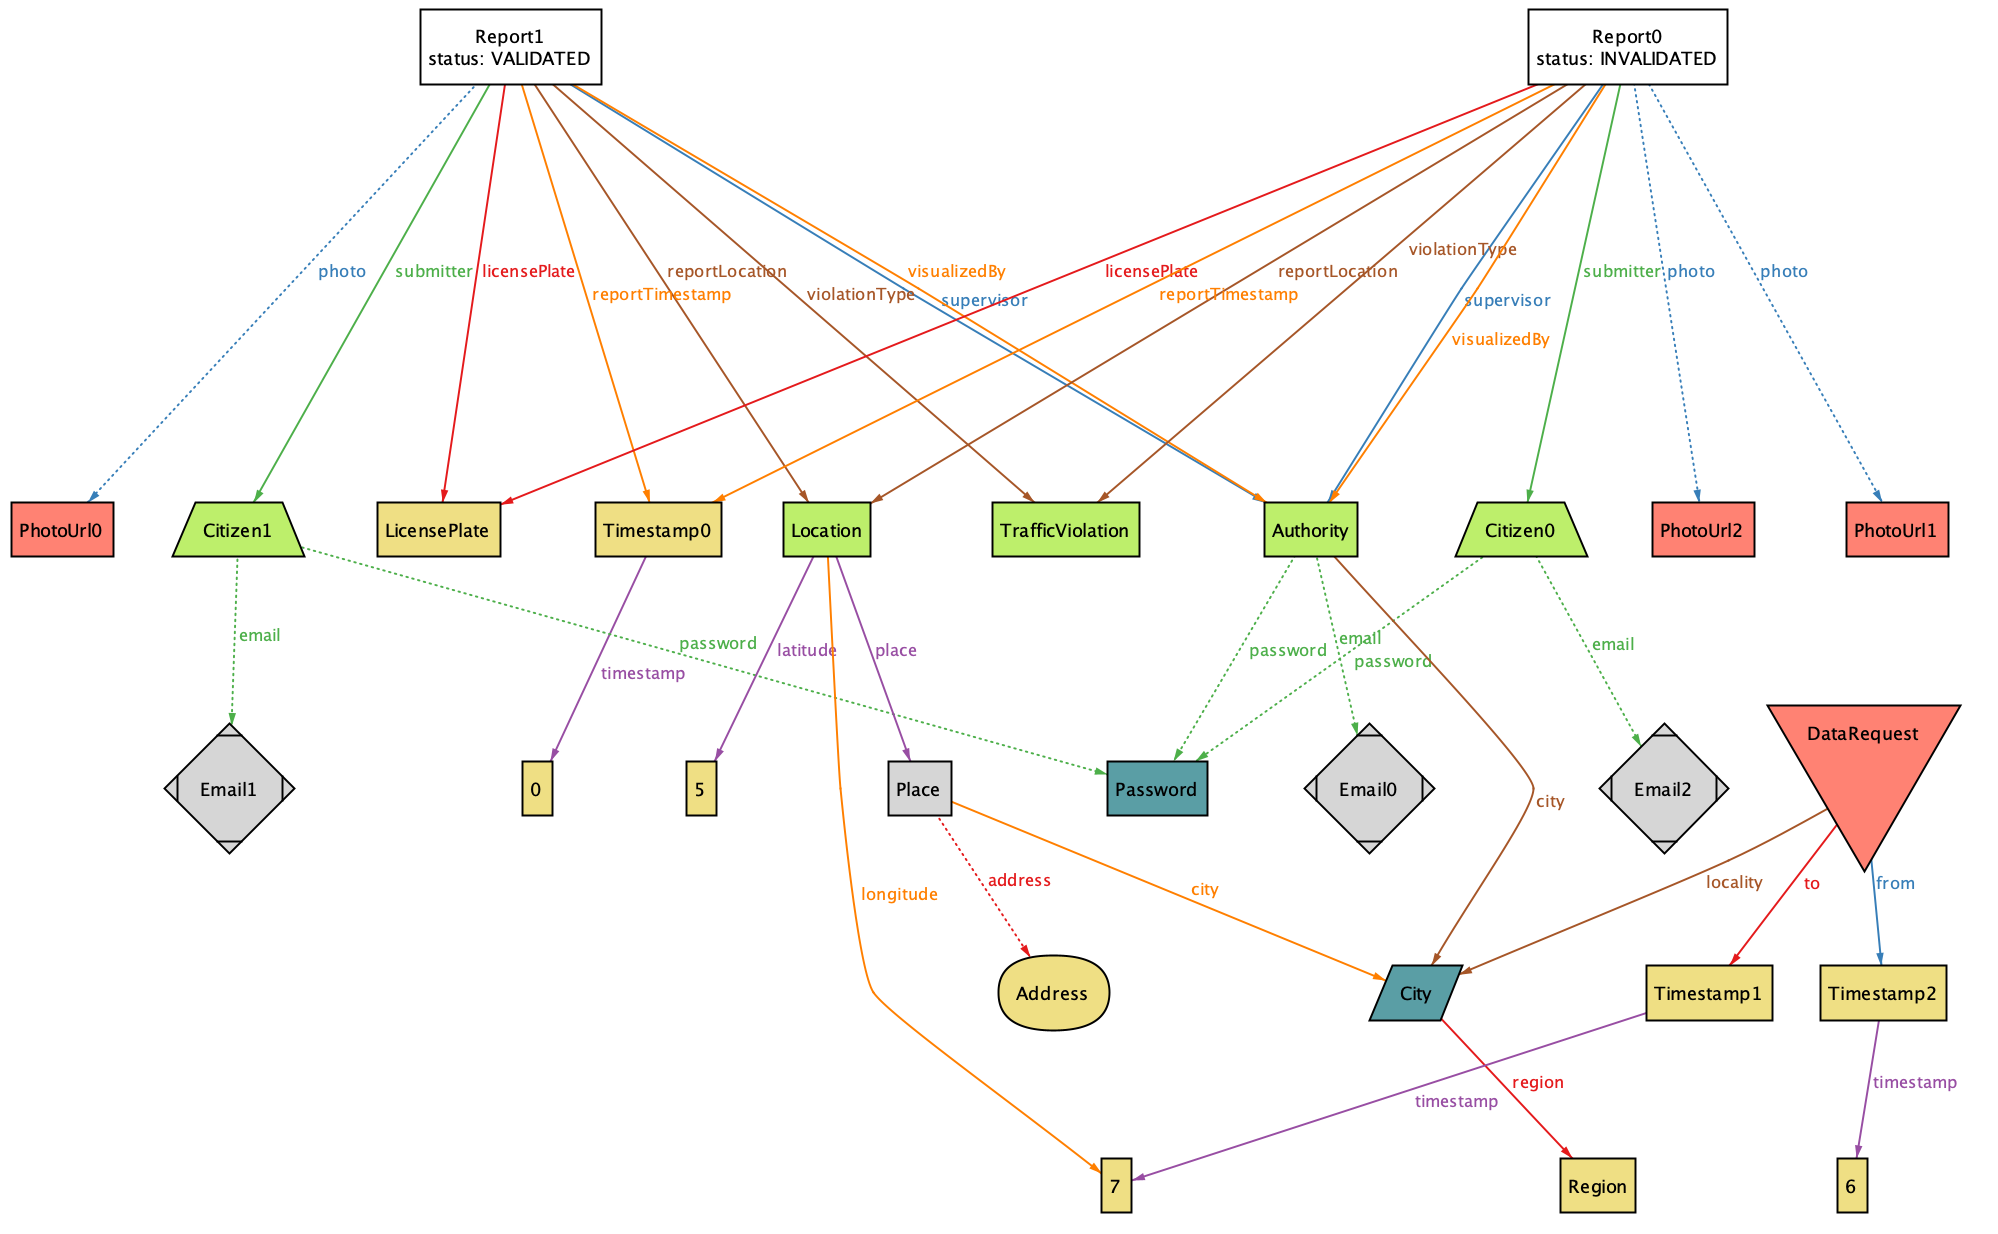
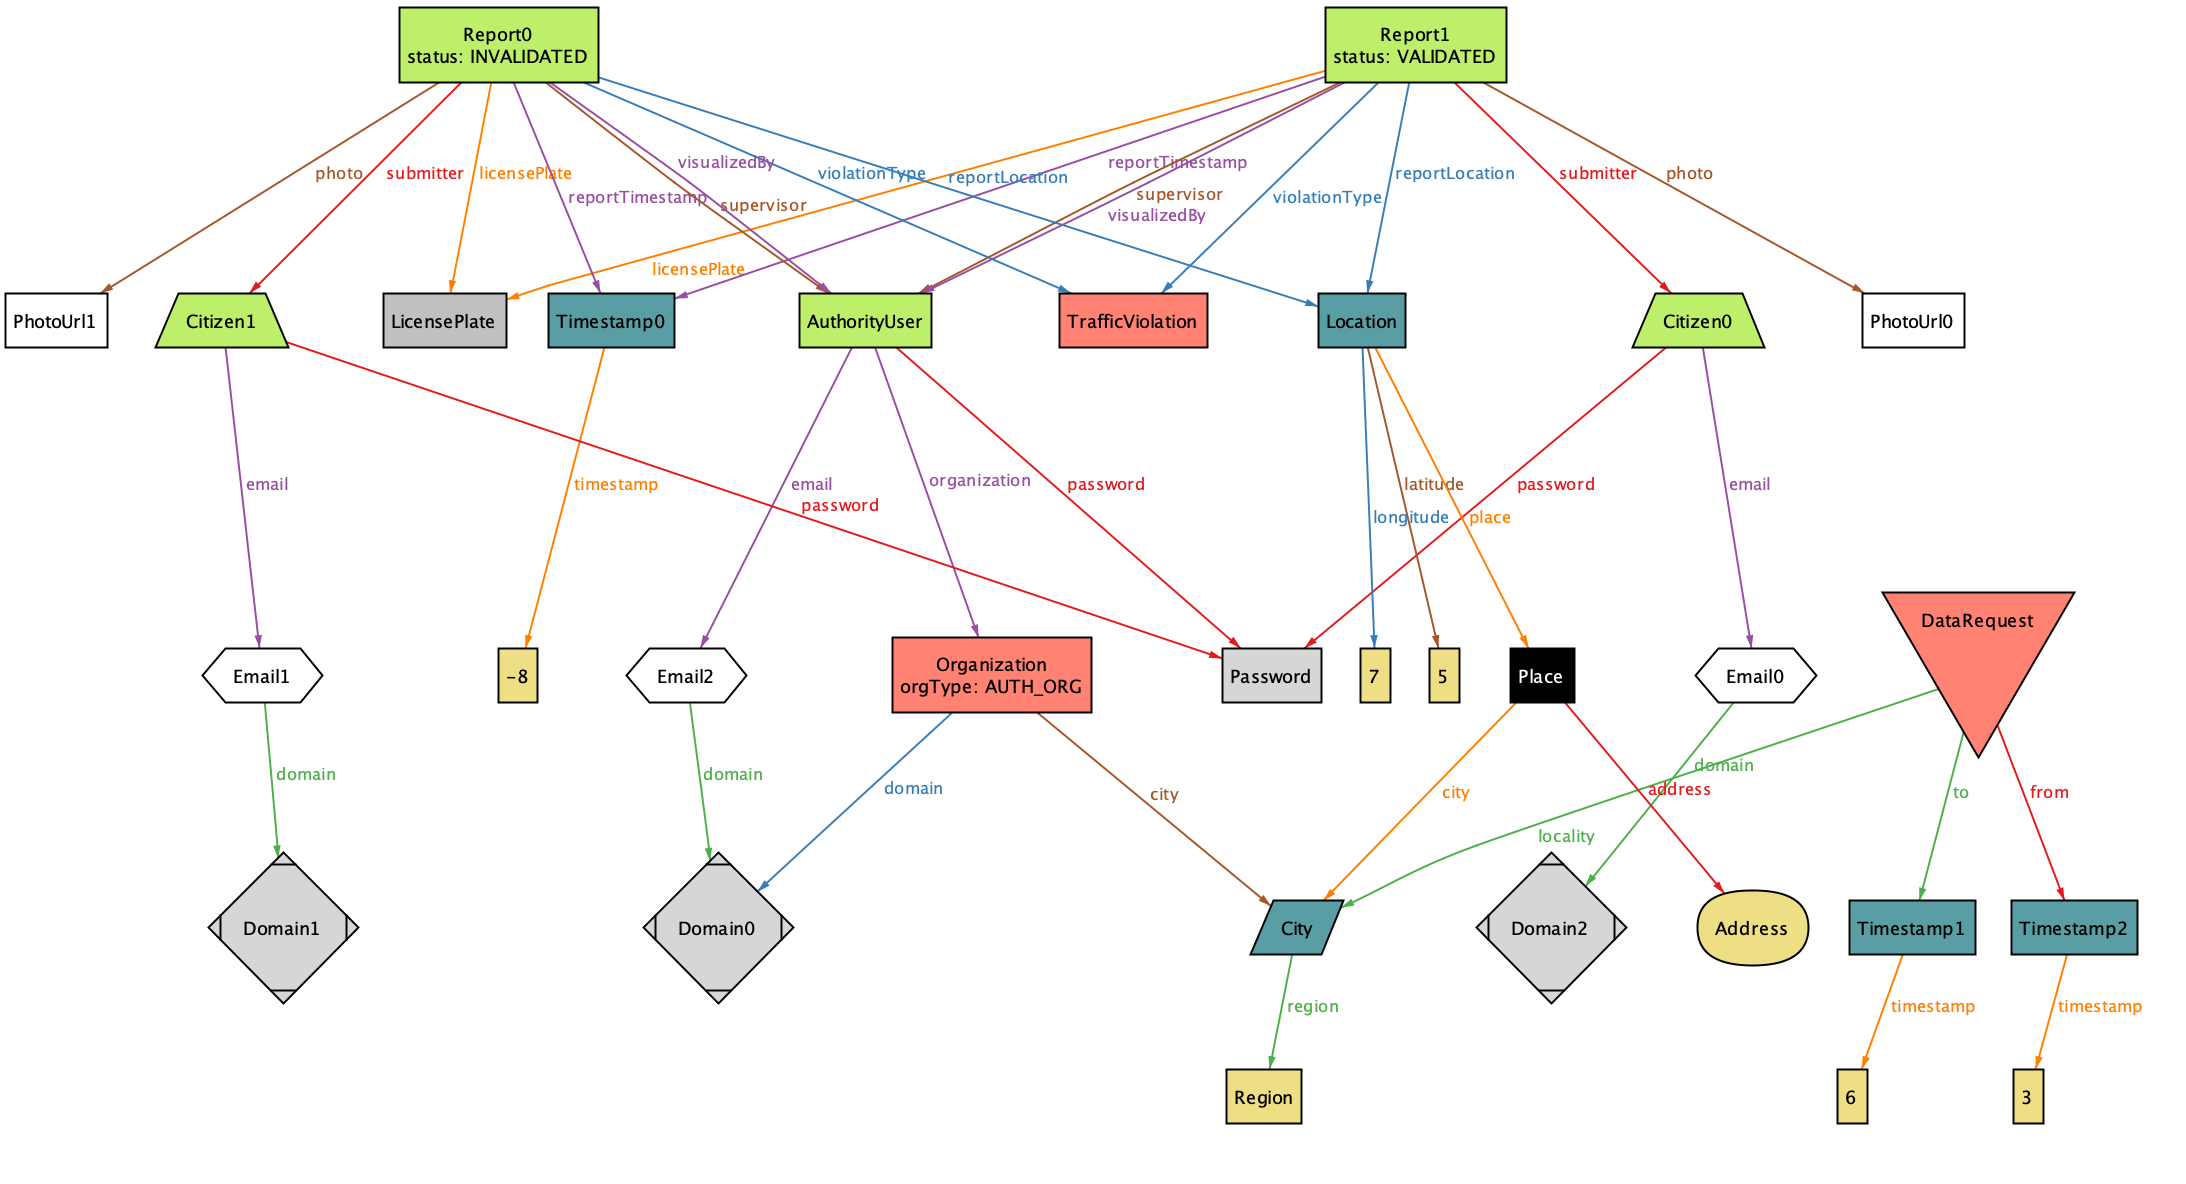
[RASD] update alloy with more assertions and organization entity

diff --git a/Documentation/RASD/Sections/EffortSpent.tex b/Documentation/RASD/Sections/EffortSpent.tex
@@ -23,8 +23,8 @@ Andrea Huang:
      Introduction &  7\\
      Overall Description & 4.0\\
      Specific Requirements & 15.25\\
-     Formal Analysis Using Alloy & 13.25\\
+     Formal Analysis Using Alloy & 14.25\\
      \hline
-     Total & 39.5\\
+     Total & 40.5\\
      \hline
 \end{tabular}
